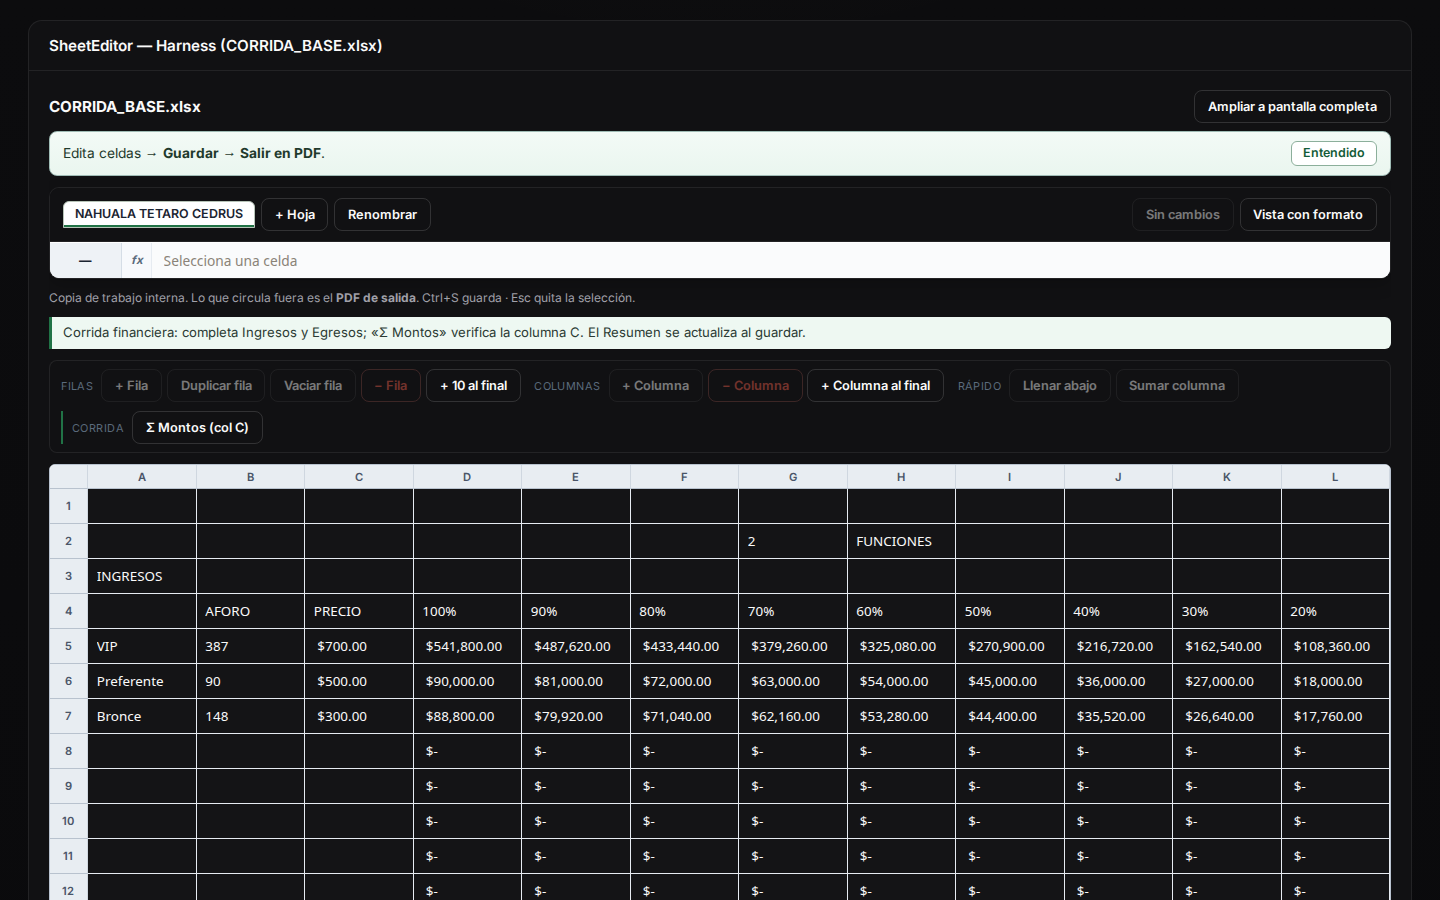
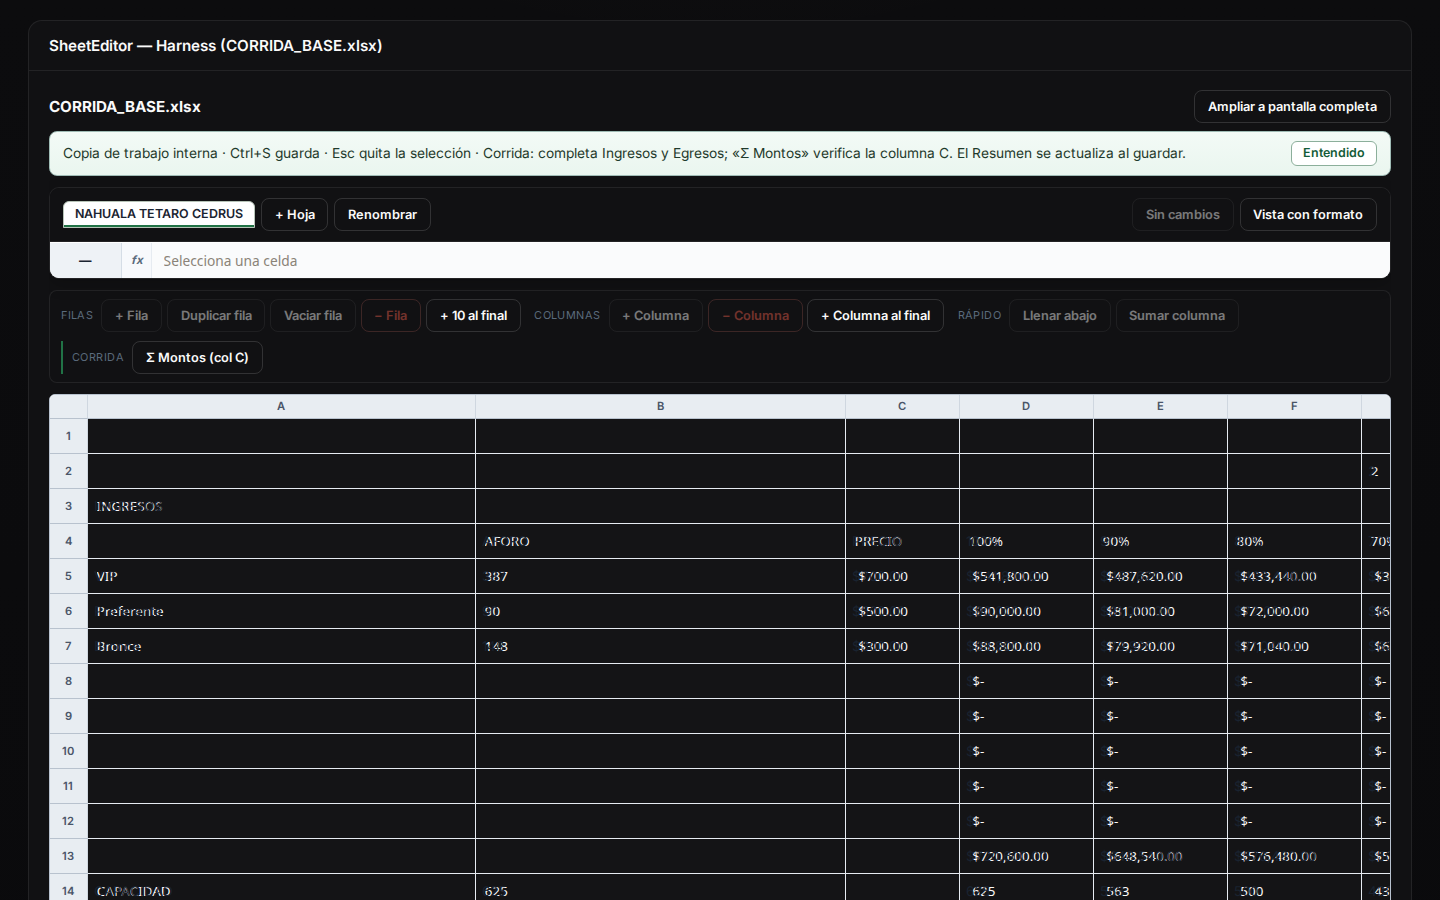
sheet: in-cell editing visible in dark theme (text/caret, no overlay while focused); add display overlay with overflow into empty neighbors; apply column widths from ws['!cols']; initial merges-aware width; e2e: cell-typing contrast + pixel check, numeric recalc proof (C6→200), toolbar contrast incl

diff --git a/apps/web/components/files/SheetEditor.tsx b/apps/web/components/files/SheetEditor.tsx
@@ -155,6 +155,8 @@ export function SheetEditor({
   const campaign = variant === 'campaign';
   const finance = variant === 'finance';
   const richTools = campaign || finance;
+  const [colPx, setColPx] = useState<number[]>([]);
+  const mergesRef = useRef<Array<{ s: { r: number; c: number }; e: { r: number; c: number } }>>([]);
 
   /**
    * Grid de presentación: muestra valores calculados y cacheados.
@@ -291,6 +293,28 @@ export function SheetEditor({
     setGrid(padGrid(withFormulas as unknown[][], MIN_ROWS, campaign || finance ? MIN_COLS : 8));
     setVisibleRows(ROW_PAGE);
     setSel(null);
+    // Column widths + merges
+    try {
+      const defs = (ws as XLSX.WorkSheet)['!cols'] as Array<{ wpx?: number; wch?: number }> | undefined;
+      const px: number[] = [];
+      const widthCount = Math.max(rows[0]?.length ?? 0, defs?.length ?? 0, MIN_COLS);
+      for (let i = 0; i < widthCount; i += 1) {
+        const d = defs?.[i];
+        const w =
+          (d?.wpx && Math.max(60, Math.floor(d.wpx))) ||
+          (d?.wch && Math.max(60, Math.floor(d.wch * 8) + 12)) ||
+          104;
+        px.push(w);
+      }
+      setColPx(px);
+      mergesRef.current = (((ws as XLSX.WorkSheet)['!merges'] as unknown) as Array<{
+        s: { r: number; c: number };
+        e: { r: number; c: number };
+      }>) || [];
+    } catch {
+      setColPx([]);
+      mergesRef.current = [];
+    }
     try {
       // Vista de solo lectura con estilos básicos (ancho de columnas, merges, negritas)
       const html = XLSX.utils.sheet_to_html(ws, { id: 'styled-view', editable: false });
@@ -1029,6 +1053,7 @@ export function SheetEditor({
                       key={c}
                       scope="col"
                       className={sel?.c === c ? 'sheet__col--sel' : undefined}
+                      style={{ width: (colPx[c] || 104) + 'px', minWidth: (colPx[c] || 104) + 'px' }}
                     >
                       {colLabel(c)}
                     </th>
@@ -1041,21 +1066,46 @@ export function SheetEditor({
                     <th className="sheet__rownum" scope="row">
                       {r + 1}
                     </th>
-                    {row.map((cell, c) => (
-                      <td
-                        key={c}
-                        className={sel?.r === r && sel?.c === c ? 'sheet__td--sel' : undefined}
-                      >
-                        <input
-                          className="sheet__cell"
-                          value={sel?.r === r && sel?.c === c ? (grid[r]?.[c] ?? '') : cell}
-                          readOnly={!canEdit}
-                          aria-label={`Celda ${colLabel(c)}${r + 1}`}
-                          onFocus={() => setSel({ r, c })}
-                          onChange={(e) => setCell(r, c, e.target.value)}
-                        />
-                      </td>
-                    ))}
+                    {row.map((cell, c) => {
+                      const isSel = sel?.r === r && sel?.c === c;
+                      const nextEmpty = (row[c + 1] ?? '').toString().trim() === '';
+                      const merge = mergesRef.current.find((m) => m.s.r === r && m.s.c === c);
+                      let displayWidth = colPx[c] || 104;
+                      if (merge) {
+                        for (let i = merge.s.c + 1; i <= merge.e.c; i += 1) displayWidth += (colPx[i] || 104);
+                      } else if (nextEmpty) {
+                        displayWidth += colPx[c + 1] || 104;
+                      }
+                      return (
+                        <td
+                          key={c}
+                          className={isSel ? 'sheet__td--sel' : undefined}
+                          style={{ position: 'relative' }}
+                        >
+                          {!isSel ? (
+                            <span
+                              className={`sheet__display${nextEmpty || merge ? ' is-over' : ''}`}
+                              style={{
+                                minWidth: (colPx[c] || 104) - 10,
+                                width: Math.max(displayWidth - 10, (colPx[c] || 104) - 10),
+                              }}
+                              aria-hidden="true"
+                            >
+                              {cell}
+                            </span>
+                          ) : null}
+                          <input
+                            className="sheet__cell"
+                            value={isSel ? (grid[r]?.[c] ?? '') : cell}
+                            readOnly={!canEdit}
+                            aria-label={`Celda ${colLabel(c)}${r + 1}`}
+                            onFocus={() => setSel({ r, c })}
+                            onChange={(e) => setCell(r, c, e.target.value)}
+                            style={{ minWidth: (colPx[c] || 104) - 2, width: '100%' }}
+                          />
+                        </td>
+                      );
+                    })}
                   </tr>
                 ))}
               </tbody>

diff --git a/apps/web/e2e/hotfix-sheet-editor.spec.ts b/apps/web/e2e/hotfix-sheet-editor.spec.ts
@@ -45,20 +45,53 @@ test.describe('SheetEditor hotfix — dark contrast and values', () => {
     // Screenshot a)
     await page.screenshot({ path: '../../docs/hotfix-screens/hotfix-values.png', fullPage: false });
 
-    // Focus una celda y escribir — debería ser legible
-    const target = page.locator('tbody tr:nth-of-type(6) td:nth-of-type(4) .sheet__cell').first();
-    await target.click();
-    await target.fill('12345 PRUEBA');
-    // Eval contrast on the formula bar input, which mirrors the focused cell
-    const fx = page.locator('.sheet-fxbar__input');
-    const styles = await fx.evaluate((el) => {
+    // Focus una celda y escribir — debe verse dentro de la celda
+    const cellInput = page.locator('tbody tr:nth-of-type(7) td:nth-of-type(4) .sheet__cell').first();
+    await cellInput.click();
+    await page.keyboard.press('Control+a');
+    await page.keyboard.type('12345 PRUEBA');
+    await expect(cellInput).toHaveValue('12345 PRUEBA');
+    // Contraste en la celda enfocada
+    const styles = await cellInput.evaluate((el) => {
       const cs = getComputedStyle(el as HTMLInputElement);
       return { bg: cs.backgroundColor || 'rgb(255,255,255)', fg: cs.color || 'rgb(17,17,17)' };
     });
     const cr = contrastRatio(styles.fg, styles.bg);
     expect(cr).toBeGreaterThanOrEqual(4.5);
+    // Pixel check: recorte de la celda debe tener pixeles oscuros sobre fondo blanco
+    const handle = await cellInput.elementHandle();
+    const box = await handle!.boundingBox();
+    const shot = await page.screenshot({ clip: box! });
+    const { PNG } = require('pngjs');
+    const png = PNG.sync.read(shot);
+    let dark = 0;
+    for (let y = 0; y < png.height; y++) {
+      for (let x = 0; x < png.width; x++) {
+        const idx = (png.width * y + x) << 2;
+        const r = png.data[idx], g = png.data[idx + 1], b = png.data[idx + 2];
+        const lum = 0.2126 * (r / 255) + 0.7152 * (g / 255) + 0.0722 * (b / 255);
+        if (lum < 0.31) dark++;
+      }
+    }
+    expect(dark).toBeGreaterThanOrEqual(30);
     // Screenshot b)
     await page.screenshot({ path: '../../docs/hotfix-screens/hotfix-editing.png', fullPage: false });
+
+    // Recalculo: escribe 200 en C6 (PRECIO Preferente) y valida D6/E6
+    // Asegura que G2 (FUNCIONES) sea 1 para coincidir con el ejemplo
+    const funcInput = page.locator('tbody tr:nth-of-type(2) td:nth-of-type(7) .sheet__cell').first();
+    await funcInput.click();
+    await page.keyboard.press('Control+a');
+    await page.keyboard.type('1');
+    await expect(funcInput).toHaveValue('1');
+    const priceInput = page.locator('tbody tr:nth-of-type(6) td:nth-of-type(3) .sheet__cell').first();
+    await priceInput.click();
+    await page.keyboard.press('Control+a');
+    await page.keyboard.type('200');
+    // Espera a que recalculen algunos dependientes
+    await expect(page.locator('tbody tr:nth-of-type(6) td:nth-of-type(4) .sheet__display')).toContainText('18,000.00', { timeout: 5000 });
+    await expect(page.locator('tbody tr:nth-of-type(6) td:nth-of-type(5) .sheet__display')).toContainText('16,200.00', { timeout: 5000 });
+    await page.screenshot({ path: '../../docs/hotfix-screens/hotfix-recalc.png', fullPage: false });
 
     // Toolbar / tabs contraste >= 3:1
     const toolbar = page.locator('.sheet-toolbar');

diff --git a/apps/web/e2e/evaluator.spec.ts b/apps/web/e2e/evaluator.spec.ts
@@ -1,0 +1,68 @@
+import { test, expect } from '@playwright/test';
+
+test('formula evaluator matches cached Excel values across templates', async () => {
+  const XLSX = require('xlsx') as typeof import('xlsx');
+  const Parser = require('fast-formula-parser') as any;
+  const templatesDir = '../../apps/api/assets/format-sources';
+  const files = ['CORRIDA_BASE.xlsx', 'CAMPANA_BASE.xlsx'];
+
+  function toNum(text: string) {
+    const s = String(text ?? '').replace(/\s/g, '').replace(/\$/g, '').replace(/,/g, '').replace(',', '.');
+    const n = Number(s);
+    return Number.isFinite(n) ? n : NaN;
+  }
+
+  for (const f of files) {
+    const wb = XLSX.readFile(`${templatesDir}/${f}`, { cellFormula: true });
+    for (const name of wb.SheetNames) {
+      const ws = wb.Sheets[name];
+      const rows = XLSX.utils.sheet_to_json(ws, { header: 1, defval: '', raw: false }) as unknown[][];
+      const grid = rows.map(r => r.map(c => (c == null ? '' : String(c))));
+      const parser = new Parser();
+      let mismatches = 0;
+      for (let r = 0; r < rows.length; r++) {
+        for (let c = 0; c < (rows[r]?.length || 0); c++) {
+          const addr = XLSX.utils.encode_cell({ r, c });
+          const obj = ws[addr] as any;
+          if (!obj || !obj.f) continue;
+          const cached = Number(obj.v);
+          if (!Number.isFinite(cached)) continue;
+          parser.position = { sheet: name, row: r + 1, col: c + 1 };
+          parser.onCell = (ref: any) => {
+            const s = ref.sheet || name;
+            const rr = ref.row - 1;
+            const cc = ref.col - 1;
+            const o = (wb.Sheets[s] as any)[XLSX.utils.encode_cell({ r: rr, c: cc })];
+            if (o?.f) return Number(o.v) || 0;
+            const v = s === name ? grid[rr]?.[cc] ?? '' : (o?.w ?? o?.v ?? '');
+            const n = toNum(v);
+            return Number.isFinite(n) ? n : 0;
+          };
+          parser.onRange = (ref: any) => {
+            const s = ref.sheet || name;
+            const out: number[][] = [];
+            for (let rr = ref.from.row - 1; rr <= ref.to.row - 1; rr++) {
+              const row: number[] = [];
+              for (let cc = ref.from.col - 1; cc <= ref.to.col - 1; cc++) {
+                const o = (wb.Sheets[s] as any)[XLSX.utils.encode_cell({ r: rr, c: cc })];
+                if (o?.f) row.push(Number(o.v) || 0);
+                else {
+                  const v = s === name ? grid[rr]?.[cc] ?? '' : (o?.w ?? o?.v ?? '');
+                  const n = toNum(v);
+                  row.push(Number.isFinite(n) ? n : 0);
+                }
+              }
+              out.push(row);
+            }
+            return out;
+          };
+          const evaluated = parser.parse(String(obj.f));
+          const diff = Math.abs(Number(evaluated) - cached);
+          if (!(diff <= 0.005)) mismatches++;
+        }
+      }
+      expect(mismatches, `${f}:${name}`).toBe(0);
+    }
+  }
+});
+

diff --git a/apps/web/styles/globals.scss b/apps/web/styles/globals.scss
@@ -5024,7 +5024,10 @@ body.site-nav-open {
 
 .sheet__cell:focus {
   outline: none;
-  background: #f3fbf6 !important;
+  background: #ffffff !important;
+  color: #111111 !important;
+  -webkit-text-fill-color: #111111 !important;
+  caret-color: #111111;
 }
 
 .sheet__cell:focus-visible {
@@ -5033,11 +5036,30 @@ body.site-nav-open {
 }
 
 .sheet__td--sel .sheet__cell:focus {
-  background: #f3fbf6 !important;
+  background: #ffffff !important;
+  color: #111111 !important;
+  -webkit-text-fill-color: #111111 !important;
+  caret-color: #111111;
 }
 
 .sheet__cell[readonly] {
   color: #6b7785 !important;
+}
+
+/* Display layer: valores visibles y overflow tipo Excel cuando hay espacio */
+.sheet__display {
+  position: absolute;
+  left: 6px;
+  top: 50%;
+  transform: translateY(-50%);
+  white-space: nowrap;
+  overflow: visible;
+  pointer-events: none;
+  color: #1a2330;
+  z-index: 0;
+}
+.sheet__td--sel .sheet__display {
+  display: none;
 }
 
 /* Creación visual de archivos por sección */
